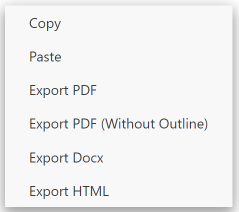
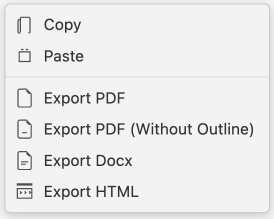
Update readme

diff --git a/README.md b/README.md
@@ -1,27 +1,31 @@
-# Officew Viewer
-
-## Introduction
+# Office Viewer
 
 English | [简体中文](README-CN.md) | [繁體中文](README-TW.md)
 
-This extension supports previewing these common office file formats in VS Code.
+## Introduction
 
-- Excel: .xls, .xlsx, .csv
-- Word: .docx
-- PowerPoint: .pptx, .pptm
-- Svg: .svg
-- Pdf: .pdf
-- Font: .ttf, .otf, .woff, .woff2
-- Markdown: .md
-- HttpRequest: .http
-- Windows Reg: .reg
-- Compressed file: .zip, .jar, .vsix, .rar
+This extension lets you preview and edit common office and design files directly in VS Code.
+
+- Excel: `.xls`, `.xlsx`, `.xlsm`, `.csv`, `.ods`
+- Word: `.docx`, `.dotx`
+- PowerPoint: `.pptx`, `.pptm`
+- PDF & eBook: `.pdf`, `.epub`
+- Svg: `.svg`
+- HEIC/TIFF: `.heic`, `.heif`, `.tiff`
+- Design: `.psd`, `.xmind`, `.icns`
+- Font: `.ttf`, `.otf`, `.woff`, `.woff2`
+- Markdown: `.md`, `.markdown`
+- HTML: `.html`, `.htm`
+- HTTP request: `.http`, `.rest`
+- Windows Registry: `.reg`
+- Java: `.class` (decompiler)
+- Compressed files: `.zip`, `.jar`, `.vsix`, `.rar`, `.7z`, `.tar`, `.tar.gz`, `.tgz`, `.apk`
 
 ## Markdown
 
-This extension changes the default markdown editor to the vditor. **Please note that this editor is no longer actively maintained.**
+This extension replaces the default Markdown editor with [Vditor](https://github.com/Vanessa219/vditor) for WYSIWYG editing. **Please note that this editor is no longer actively maintained.**
 
-If you want to use the original vscode editor, insert this in your `settings.json`.
+To use the built-in VS Code Markdown editor instead, add this to your `settings.json`:
 
 ```json
 {
@@ -32,7 +36,11 @@ If you want to use the original vscode editor, insert this in your `settings.jso
 }
 ```
 
-Shortcuts: Base on [Vditor shortcuts](shortcut.md) and more:
+Right-click in the editor to export Markdown to PDF, DOCX, or HTML. PDF export requires Chromium; set the browser path with `vscode-office.chromiumPath`.
+
+![Export Markdown](image/README-CN/1685418034035.png)
+
+Shortcuts: Based on [Vditor shortcuts](shortcut.md), plus:
 
 - Move list up: `Ctrl Alt I` / `⌘ ^ I`
 - Move list down: `Ctrl Alt J` / `⌘ ^ J`
@@ -40,31 +48,36 @@ Shortcuts: Base on [Vditor shortcuts](shortcut.md) and more:
 
 Tips:
 
-- Resize editor via ctrl/cmd+mouse scroll.
-- Hyperlinks can be opened by ctrl/meta+click or double-click.
+- Resize the editor with Ctrl/Cmd + mouse scroll.
+- Open hyperlinks with Ctrl/Meta + click or double-click.
 
-## HTML
+## Other features
 
-The html editor supports live viewing.   Press ctrl+shift+v to open the live view.
-
-## PowerPoint
-
-Open `.pptx` or `.pptm` files to preview slides with a classic layout: thumbnail list on the left and the current slide on the right. Use arrow keys or click a thumbnail to navigate.
+- HTML: live preview while editing; press `Ctrl+Shift+V` to open the live view
+- Icon theme: includes a subset of [Material Icon Theme](https://github.com/PKief/vscode-material-icon-theme) icons, plus **Office Material Icon Theme** and **One Dark Modern** color themes
+- Excel: preview and save `.xlsx`, `.xls`, `.xlsm`, `.csv`, and `.ods` files (saving `.xlsx` may lose formatting; `.csv` does not support GBK-encoded Chinese)
+- HTTP: send requests from `.http` and `.rest` files (integrated from [REST Client](https://github.com/Huachao/vscode-restclient) with fixes for local request issues); press `Ctrl+Enter` / `⌘ Enter` to send
+- Java: decompile and view `.class` files
 
 ## Sponsor
 
 [![Database Client](https://database-client.com/text_logo.png)](https://marketplace.visualstudio.com/items?itemName=cweijan.vscode-database-client2)
 
-Database Client for Visual Studio Code, supporting the management **MySQL/MariaDB, PostgreSQL, SQLite, Redis** and  **ElasticSearch**, and works as an **SSH** client, boost your maximum productivity! [Get it now](https://marketplace.visualstudio.com/items?itemName=cweijan.vscode-database-client2).
+Database Client for Visual Studio Code, supporting the management of **MySQL/MariaDB, PostgreSQL, SQLite, Redis**, and **ElasticSearch**, and works as an **SSH** client to boost your productivity! [Get it now](https://marketplace.visualstudio.com/items?itemName=cweijan.vscode-database-client2).
 
 ## Credits
 
-- PDF rendering: [mozilla/pdf.js/](https://github.com/mozilla/pdf.js/)
-- Docx rendering: [VolodymyrBaydalka/docxjs](https://github.com/VolodymyrBaydalka/docxjs)
+- PDF rendering: [mozilla/pdf.js](https://github.com/mozilla/pdf.js/)
+- DOCX rendering: [VolodymyrBaydalka/docxjs](https://github.com/VolodymyrBaydalka/docxjs)
 - PPTX rendering: [pptxviewjs](https://www.npmjs.com/package/pptxviewjs)
 - XLSX rendering:
   - [SheetJS/sheetjs](https://github.com/SheetJS/sheetjs): XLSX parsing
   - [myliang/x-spreadsheet](https://github.com/myliang/x-spreadsheet): XLSX rendering
-- HTTP: [Rest  Client](https://github.com/Huachao/vscode-restclient)
+- EPUB: [futurepress/epub.js](https://github.com/futurepress/epub.js)
+- PSD: [ag-psd](https://github.com/Agamnentzar/ag-psd)
+- XMind: [mind-elixir](https://github.com/ssshooter/mind-elixir-core), [@mind-elixir/import-xmind](https://github.com/ssshooter/mind-elixir-core)
+- HEIC conversion: [heic2any](https://github.com/alexcorvi/heic2any)
+- Java decompiler: [JetBrains/java-decompiler](https://github.com/JetBrains/intellij-community/tree/master/plugins/java-decompiler/engine)
+- HTTP: [REST Client](https://github.com/Huachao/vscode-restclient)
 - Markdown: [Vanessa219/vditor](https://github.com/Vanessa219/vditor)
 - Material Icon theme: [PKief/vscode-material-icon-theme](https://github.com/PKief/vscode-material-icon-theme)

diff --git a/README-CN.md b/README-CN.md
@@ -1,25 +1,31 @@
 # Office Viewer
 
+[English](README.md) | 简体中文 | [繁體中文](README-TW.md)
+
 ## 介绍
 
-本扩展支持在VS Code中预览以下常见的办公文件格式：
+本扩展支持在 VS Code 中预览以下常见的办公文件格式：
 
-- Excel: .xls, .xlsx, .csv
-- Word: .docx
-- PowerPoint: .pptx, .pptm
-- Svg: .svg
-- Pdf: .pdf
-- 字体: .ttf, .otf, .woff, .woff2
-- Markdown: .md
-- HTTP请求: .http
-- Windows注册表: .reg
-- 压缩文件: .zip, .jar, .vsix, .rar
+- Excel: `.xls`、`.xlsx`、`.xlsm`、`.csv`、`.ods`
+- Word: `.docx`、`.dotx`
+- PowerPoint: `.pptx`、`.pptm`
+- PDF 与电子书: `.pdf`、`.epub`
+- Svg: `.svg`
+- HEIC/TIFF: `.heic`、`.heif`、`.tiff`
+- 设计文件: `.psd`、`.xmind`、`.icns`
+- 字体: `.ttf`、`.otf`、`.woff`、`.woff2`
+- Markdown: `.md`、`.markdown`
+- HTML: `.html`、`.htm`
+- HTTP 请求: `.http`、`.rest`
+- Windows 注册表: `.reg`
+- Java: `.class`（反编译）
+- 压缩文件: `.zip`、`.jar`、`.vsix`、`.rar`、`.7z`、`.tar`、`.tar.gz`、`.tgz`、`.apk`
 
 ## Markdown
 
-集成[Vditor](https://github.com/Vanessa219/vditor)实现对markdown的所见即所得编辑, **注意这个编辑器不再积极维护**.
+集成 [Vditor](https://github.com/Vanessa219/vditor) 实现 Markdown 所见即所得编辑。**注意：该编辑器已不再积极维护。**
 
-如果你需要使用原生markdown编辑器, 在vscode设置中增加以下配置.
+如需使用 VS Code 原生 Markdown 编辑器，请在 `settings.json` 中添加以下配置：
 
 ```json
 {
@@ -30,38 +36,48 @@
 }
 ```
 
-- 在编辑器打开右键菜单可将markdown导出为pdf, docx或者html, pdf依赖于chromium, 可通过 `vscode-office.chromiumPath`配置chromium浏览器路径.
-  ![1685418034035](image/README-CN/1685418034035.png)
+在编辑器中右键，可将 Markdown 导出为 PDF、DOCX 或 HTML。PDF 导出依赖 Chromium，可通过 `vscode-office.chromiumPath` 配置浏览器路径。
 
-快捷键: 基于[Vditor快捷键](shortcut.md)以及更多:
+![导出 Markdown](image/README-CN/1685418034035.png)
+
+快捷键：基于 [Vditor 快捷键](shortcut.md)，以及：
 
 - 将列表上移一行: `Ctrl Alt I` / `⌘ ^ I`
 - 将列表下移一行: `Ctrl Alt J` / `⌘ ^ J`
-- 在VS Code中编辑: `Ctrl Alt E` / `⌘ ^ E`
+- 在 VS Code 中编辑: `Ctrl Alt E` / `⌘ ^ E`
+
+提示：
+
+- 可通过 Ctrl/Cmd + 鼠标滚轮调整编辑器大小。
+- 按住 Ctrl/Meta + 单击或双击可打开超链接。
 
 ## 其他功能
 
-- 图标主题: 内置了Material Icon Theme部分icon
-- Excel: 支持对xlsx, csv等excel文件进行预览和保存(注意xlsx保存会丢失格式, csv则不支持gbk中文)
-- PowerPoint: 支持预览pptx, pptm文件, 左侧为幻灯片缩略图, 右侧为当前幻灯片大图, 可使用方向键或点击缩略图切换
-- HTML: 编辑HTML的过程中按下ctrl+shift+v可实时预览.
-- PDF: 支持直接预览pdf文件
-- HTTP: 用于发送http请求, 由于REST Client本地请求有bug, 修改后进行集成.
+- HTML: 编辑时按下 `Ctrl+Shift+V` 可实时预览
+- 图标主题: 内置 [Material Icon Theme](https://github.com/PKief/vscode-material-icon-theme) 部分图标，并提供 **Office Material Icon Theme** 与 **One Dark Modern** 配色主题
+- Excel: 支持预览和保存 `.xlsx`、`.xls`、`.xlsm`、`.csv`、`.ods` 等文件（注意保存 `.xlsx` 可能丢失格式；`.csv` 不支持 GBK 编码的中文）
+- HTTP: 在 `.http`、`.rest` 文件中发送请求（集成自 [REST Client](https://github.com/Huachao/vscode-restclient)，并修复了本地请求的已知问题）；按 `Ctrl+Enter` / `⌘ Enter` 发送
+- Java: 打开 `.class` 文件可反编译并查看源码
 
 ## Sponsor
 
 [![Database Client](https://database-client.com/text_logo.png)](https://marketplace.visualstudio.com/items?itemName=cweijan.vscode-database-client2)
 
-适用于Visual Studio Code的数据库客户端, 支持**MySQL/MariaDB, PostgreSQL, SQLite, Redis**以及**ElasticSearch**等数据库的管理, 且可作为一个SSH客户端, 极大地提升您的生产力! [立刻安装](https://marketplace.visualstudio.com/items?itemName=cweijan.vscode-database-client2).
+适用于 Visual Studio Code 的数据库客户端，支持 **MySQL/MariaDB、PostgreSQL、SQLite、Redis** 以及 **ElasticSearch** 等数据库的管理，且可作为一个 SSH 客户端，极大地提升您的生产力！[立刻安装](https://marketplace.visualstudio.com/items?itemName=cweijan.vscode-database-client2)。
 
 ## Credits
 
-- PDF rendering: [mozilla/pdf.js/](https://github.com/mozilla/pdf.js/)
-- Docx rendering: [VolodymyrBaydalka/docxjs](https://github.com/VolodymyrBaydalka/docxjs)
+- PDF rendering: [mozilla/pdf.js](https://github.com/mozilla/pdf.js/)
+- DOCX rendering: [VolodymyrBaydalka/docxjs](https://github.com/VolodymyrBaydalka/docxjs)
 - PPTX rendering: [pptxviewjs](https://www.npmjs.com/package/pptxviewjs)
 - XLSX rendering:
   - [SheetJS/sheetjs](https://github.com/SheetJS/sheetjs): XLSX parsing
   - [myliang/x-spreadsheet](https://github.com/myliang/x-spreadsheet): XLSX rendering
-- HTTP: [Rest  Client](https://github.com/Huachao/vscode-restclient)
+- EPUB: [futurepress/epub.js](https://github.com/futurepress/epub.js)
+- PSD: [ag-psd](https://github.com/Agamnentzar/ag-psd)
+- XMind: [mind-elixir](https://github.com/ssshooter/mind-elixir-core), [@mind-elixir/import-xmind](https://github.com/ssshooter/mind-elixir-core)
+- HEIC conversion: [heic2any](https://github.com/alexcorvi/heic2any)
+- Java decompiler: [JetBrains/java-decompiler](https://github.com/JetBrains/intellij-community/tree/master/plugins/java-decompiler/engine)
+- HTTP: [REST Client](https://github.com/Huachao/vscode-restclient)
 - Markdown: [Vanessa219/vditor](https://github.com/Vanessa219/vditor)
 - Material Icon theme: [PKief/vscode-material-icon-theme](https://github.com/PKief/vscode-material-icon-theme)

diff --git a/README-TW.md b/README-TW.md
@@ -1,25 +1,31 @@
 # Office Viewer
 
+[English](README.md) | [简体中文](README-CN.md) | 繁體中文
+
 ## 介紹
 
-本擴充功能支援在VS Code中預覽以下常見的辦公檔案格式：
+本擴充功能支援在 VS Code 中預覽以下常見的辦公檔案格式：
 
-- Excel: .xls, .xlsx, .csv
-- Word: .docx
-- PowerPoint: .pptx, .pptm
-- Svg: .svg
-- Pdf: .pdf
-- 字型: .ttf, .otf, .woff, .woff2
-- Markdown: .md
-- HTTP請求: .http
-- Windows登錄檔: .reg
-- 壓縮檔案: .zip, .jar, .vsix, .rar
+- Excel: `.xls`、`.xlsx`、`.xlsm`、`.csv`、`.ods`
+- Word: `.docx`、`.dotx`
+- PowerPoint: `.pptx`、`.pptm`
+- PDF 與電子書: `.pdf`、`.epub`
+- Svg: `.svg`
+- HEIC/TIFF: `.heic`、`.heif`、`.tiff`
+- 設計檔案: `.psd`、`.xmind`、`.icns`
+- 字型: `.ttf`、`.otf`、`.woff`、`.woff2`
+- Markdown: `.md`、`.markdown`
+- HTML: `.html`、`.htm`
+- HTTP 請求: `.http`、`.rest`
+- Windows 登錄檔: `.reg`
+- Java: `.class`（反編譯）
+- 壓縮檔案: `.zip`、`.jar`、`.vsix`、`.rar`、`.7z`、`.tar`、`.tar.gz`、`.tgz`、`.apk`
 
 ## Markdown
 
-整合[Vditor](https://github.com/Vanessa219/vditor)實現對markdown的所見即所得編輯, **注意這個編輯器不再積極維護**.
+整合 [Vditor](https://github.com/Vanessa219/vditor) 實現 Markdown 所見即所得編輯。**注意：此編輯器已不再積極維護。**
 
-如果你需要使用原生markdown編輯器, 在vscode設定中增加以下配置.
+如需使用 VS Code 原生 Markdown 編輯器，請在 `settings.json` 中新增以下設定：
 
 ```json
 {
@@ -30,38 +36,48 @@
 }
 ```
 
-- 在編輯器開啟右鍵選單可將markdown匯出為pdf, docx或者html, pdf依賴於chromium, 可透過 `vscode-office.chromiumPath`配置chromium瀏覽器路徑.
-  ![1685418034035](image/README-CN/1685418034035.png)
+在編輯器中按右鍵，可將 Markdown 匯出為 PDF、DOCX 或 HTML。PDF 匯出依賴 Chromium，可透過 `vscode-office.chromiumPath` 設定瀏覽器路徑。
 
-快捷鍵: 基於[Vditor快捷鍵](shortcut.md)以及更多:
+![匯出 Markdown](image/README-CN/1685418034035.png)
+
+快捷鍵：基於 [Vditor 快捷鍵](shortcut.md)，以及：
 
 - 將清單上移一行: `Ctrl Alt I` / `⌘ ^ I`
 - 將清單下移一行: `Ctrl Alt J` / `⌘ ^ J`
-- 在VS Code中編輯: `Ctrl Alt E` / `⌘ ^ E`
+- 在 VS Code 中編輯: `Ctrl Alt E` / `⌘ ^ E`
+
+提示：
+
+- 可透過 Ctrl/Cmd + 滑鼠滾輪調整編輯器大小。
+- 按住 Ctrl/Meta + 點擊或雙擊可開啟超連結。
 
 ## 其他功能
 
-- 圖示主題: 內建了Material Icon Theme部分icon
-- Excel: 支援對xlsx, csv等excel檔案進行預覽和儲存(注意xlsx儲存會丟失格式, csv則不支援gbk中文)
-- PowerPoint: 支援預覽pptx, pptm檔案, 左側為投影片縮圖, 右側為目前投影片大圖, 可使用方向鍵或點擊縮圖切換
-- HTML: 編輯HTML的過程中按下ctrl+shift+v可實時預覽.
-- PDF: 支援直接預覽pdf檔案
-- HTTP: 用於傳送http請求, 由於REST Client本地請求有bug, 修改後進行整合.
+- HTML: 編輯時按下 `Ctrl+Shift+V` 可即時預覽
+- 圖示主題: 內建 [Material Icon Theme](https://github.com/PKief/vscode-material-icon-theme) 部分圖示，並提供 **Office Material Icon Theme** 與 **One Dark Modern** 配色主題
+- Excel: 支援預覽與儲存 `.xlsx`、`.xls`、`.xlsm`、`.csv`、`.ods` 等檔案（注意儲存 `.xlsx` 可能遺失格式；`.csv` 不支援 GBK 編碼的中文）
+- HTTP: 在 `.http`、`.rest` 檔案中傳送請求（整合自 [REST Client](https://github.com/Huachao/vscode-restclient)，並修正了本地請求的已知問題）；按 `Ctrl+Enter` / `⌘ Enter` 傳送
+- Java: 開啟 `.class` 檔案可反編譯並查看原始碼
 
 ## Sponsor
 
 [![Database Client](https://database-client.com/text_logo.png)](https://marketplace.visualstudio.com/items?itemName=cweijan.vscode-database-client2)
 
-適用於Visual Studio Code的數據庫客戶端, 支援**MySQL/MariaDB, PostgreSQL, SQLite, Redis**以及**ElasticSearch**等數據庫的管理, 且可作為一個SSH客戶端, 極大地提升您的生產力! [立刻安裝](https://marketplace.visualstudio.com/items?itemName=cweijan.vscode-database-client2).
+適用於 Visual Studio Code 的資料庫用戶端，支援 **MySQL/MariaDB、PostgreSQL、SQLite、Redis** 以及 **ElasticSearch** 等資料庫的管理，且可作為 SSH 用戶端，極大地提升您的生產力！[立刻安裝](https://marketplace.visualstudio.com/items?itemName=cweijan.vscode-database-client2)。
 
 ## Credits
 
-- PDF rendering: [mozilla/pdf.js/](https://github.com/mozilla/pdf.js/)
-- Docx rendering: [VolodymyrBaydalka/docxjs](https://github.com/VolodymyrBaydalka/docxjs)
+- PDF rendering: [mozilla/pdf.js](https://github.com/mozilla/pdf.js/)
+- DOCX rendering: [VolodymyrBaydalka/docxjs](https://github.com/VolodymyrBaydalka/docxjs)
 - PPTX rendering: [pptxviewjs](https://www.npmjs.com/package/pptxviewjs)
 - XLSX rendering:
   - [SheetJS/sheetjs](https://github.com/SheetJS/sheetjs): XLSX parsing
   - [myliang/x-spreadsheet](https://github.com/myliang/x-spreadsheet): XLSX rendering
-- HTTP: [Rest  Client](https://github.com/Huachao/vscode-restclient)
+- EPUB: [futurepress/epub.js](https://github.com/futurepress/epub.js)
+- PSD: [ag-psd](https://github.com/Agamnentzar/ag-psd)
+- XMind: [mind-elixir](https://github.com/ssshooter/mind-elixir-core), [@mind-elixir/import-xmind](https://github.com/ssshooter/mind-elixir-core)
+- HEIC conversion: [heic2any](https://github.com/alexcorvi/heic2any)
+- Java decompiler: [JetBrains/java-decompiler](https://github.com/JetBrains/intellij-community/tree/master/plugins/java-decompiler/engine)
+- HTTP: [REST Client](https://github.com/Huachao/vscode-restclient)
 - Markdown: [Vanessa219/vditor](https://github.com/Vanessa219/vditor)
 - Material Icon theme: [PKief/vscode-material-icon-theme](https://github.com/PKief/vscode-material-icon-theme)